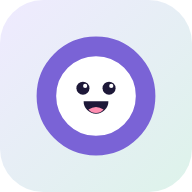
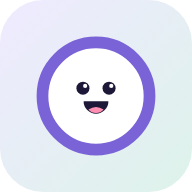
Serve the site at mojo.heylixir.com and thin the O rings
- Site URL is https://mojo.heylixir.com, served at the root (no /mojo basePath);
  old /mojo links redirect permanently to the same page
- Thinner rings on both O characters (stroke 9 instead of 15, same outer size)
  in the logo, brand SVGs, favicon, app icons and social cards

Claude-Session: https://claude.ai/code/session_018eTBRWSBaTgPc7eA9szVGF

Changed region(s): [[0.25, 0.25, 0.75, 0.75]]

diff --git a/src/lib/site.ts b/src/lib/site.ts
@@ -1,22 +1,22 @@
 /**
  * Every external link, URL and contact detail on the site, in one place.
  *
- * NEXT_PUBLIC_SITE_URL is the public address of this site, including any
- * sub-path. It defaults to https://heylixir.com/mojo -- the address the MOJO
- * API already uses in its emails (privacy, unsubscribe). next.config.ts
+ * NEXT_PUBLIC_SITE_URL is the public address of this site, served at the
+ * root of https://mojo.heylixir.com (the default, and the address the MOJO
+ * API uses in its emails: privacy, unsubscribe). next.config.js
  * derives `basePath` from the same value, so canonical URLs, the sitemap and
  * routing always agree.
  */
-const rawSiteUrl = process.env.NEXT_PUBLIC_SITE_URL ?? "https://heylixir.com/mojo";
+const rawSiteUrl = process.env.NEXT_PUBLIC_SITE_URL ?? "https://mojo.heylixir.com";
 
-/** Absolute site URL without a trailing slash, e.g. https://heylixir.com/mojo */
+/** Absolute site URL without a trailing slash, e.g. https://mojo.heylixir.com */
 export const siteUrl = rawSiteUrl.replace(/\/+$/, "");
 
 /**
  * Absolute URL for a path on this site, without a trailing slash (matching
  * `trailingSlash: false` in next.config.js), so canonicals, the sitemap and the served URL agree.
- *   absoluteUrl("/guides")      -> https://heylixir.com/mojo/guides
- *   absoluteUrl("/sitemap.xml") -> https://heylixir.com/mojo/sitemap.xml
+ *   absoluteUrl("/guides")      -> https://mojo.heylixir.com/guides
+ *   absoluteUrl("/sitemap.xml") -> https://mojo.heylixir.com/sitemap.xml
  */
 export function absoluteUrl(path = "/"): string {
   const p = (path.startsWith("/") ? path : `/${path}`).replace(/\/+$/, "");

diff --git a/next.config.js b/next.config.js
@@ -2,9 +2,10 @@
 // eslint-disable-next-line @typescript-eslint/no-require-imports -- CommonJS config
 const path = require('path')
 
-// The site's public URL. Its path becomes basePath, so https://heylixir.com/mojo serves the
-// site under /mojo (set NEXT_PUBLIC_SITE_URL in .env.production).
-const siteUrl = process.env.NEXT_PUBLIC_SITE_URL || 'https://heylixir.com/mojo'
+// The site's public URL (set NEXT_PUBLIC_SITE_URL in .env.production). It is served at the root of
+// mojo.heylixir.com, so basePath is empty; a URL with a path (e.g. https://example.com/mojo) would
+// serve the site under that path instead.
+const siteUrl = process.env.NEXT_PUBLIC_SITE_URL || 'https://mojo.heylixir.com'
 const basePath = new URL(siteUrl).pathname.replace(/\/+$/, '')
 
 const nextConfig = {
@@ -38,6 +39,13 @@ const nextConfig = {
     cacheComponents: true,
     reactCompiler: true,
     poweredByHeader: false,
+    // the site used to live under /mojo; send old links to the same page at the root
+    async redirects() {
+        return basePath ? [] : [
+            { source: '/mojo', destination: '/', permanent: true },
+            { source: '/mojo/:path*', destination: '/:path*', permanent: true },
+        ]
+    },
 }
 
 module.exports = nextConfig

diff --git a/src/components/brand/characters.tsx b/src/components/brand/characters.tsx
@@ -10,7 +10,7 @@ const INK = "#1D1838";
 export function TalkerO({ size = "1em", dark = false, style, className }: Props) {
   return (
     <svg width={size} height={size} viewBox="0 0 100 100" style={style} className={className} aria-hidden="true">
-      <circle cx="50" cy="50" r="38" fill="#fff" stroke={dark ? "#A996FF" : "#7A63D6"} strokeWidth="15" />
+      <circle cx="50" cy="50" r="41" fill="#fff" stroke={dark ? "#A996FF" : "#7A63D6"} strokeWidth="9" />
       <circle cx="40" cy="44" r="5" fill={INK} />
       <circle cx="60" cy="44" r="5" fill={INK} />
       <circle cx="41.7" cy="42.3" r="1.6" fill="#fff" />
@@ -25,7 +25,7 @@ export function TalkerO({ size = "1em", dark = false, style, className }: Props)
 export function ChillO({ size = "1em", dark = false, style, className }: Props) {
   return (
     <svg width={size} height={size} viewBox="0 0 100 100" style={style} className={className} aria-hidden="true">
-      <circle cx="50" cy="50" r="38" fill="#fff" stroke={dark ? "#6FD3B4" : "#3FA688"} strokeWidth="15" />
+      <circle cx="50" cy="50" r="41" fill="#fff" stroke={dark ? "#6FD3B4" : "#3FA688"} strokeWidth="9" />
       <path
         d="M33.5 47q6.5-7.5 13 0M53.5 47q6.5-7.5 13 0M39.5 56.5q10.5 9.5 21 0"
         fill="none"

diff --git a/src/app/layout.tsx b/src/app/layout.tsx
@@ -13,8 +13,7 @@ const jakarta = Plus_Jakarta_Sans({
 const defaultTitle = "MOJO: Voice Journal & Mood Tracker for Sleep and Energy";
 
 export const metadata: Metadata = {
-  // Includes the base path (e.g. /mojo): Next joins relative metadata URLs, including generated
-  // OG images, onto this pathname. Canonical and OG page URLs are absolute via absoluteUrl().
+  // Next joins relative metadata URLs, including generated OG images, onto this URL. Canonical and OG page URLs are absolute via absoluteUrl().
   metadataBase: new URL(site.url),
   title: { default: defaultTitle, template: "%s · MOJO" },
   description: site.description,

diff --git a/src/app/robots.ts b/src/app/robots.ts
@@ -6,10 +6,7 @@ export function generateStaticParams() {
   return [{}];
 }
 
-/**
- * When this app is served under a path (heylixir.com/mojo), crawlers read robots.txt from the
- * domain root, which the parent site owns. Add `Sitemap: <this sitemap URL>` there too.
- */
+/** robots.txt for mojo.heylixir.com (the site is served at the subdomain root, so crawlers read this one). */
 export default function robots(): MetadataRoute.Robots {
   return {
     // The unsubscribe page is kept out of search with a noindex tag, which crawlers must be

diff --git a/README.md b/README.md
@@ -44,14 +44,14 @@ photos.
   entry, Article/Breadcrumb/FAQ JSON-LD and related-guide links. Keep `metaTitle` under ~60
   characters and `description` at 140-160. Bump `updated` when you edit a guide.
 - `sitemap.xml`, `robots.txt`, `manifest.webmanifest` and `llms.txt` are generated from the same data.
-- Canonical URLs come from `NEXT_PUBLIC_SITE_URL` (default `https://heylixir.com/mojo`), whose path
-  is also the `basePath`. URLs have no trailing slash.
+- Canonical URLs come from `NEXT_PUBLIC_SITE_URL` (default `https://mojo.heylixir.com`), served at the
+  domain root (no `basePath`). URLs have no trailing slash.
 
 ## Environment variables
 
 | Variable | Purpose |
 | --- | --- |
-| `NEXT_PUBLIC_SITE_URL` | Public URL, e.g. `https://heylixir.com/mojo` (sets basePath and canonicals) |
+| `NEXT_PUBLIC_SITE_URL` | Public URL, e.g. `https://mojo.heylixir.com` (canonicals; a path in it would become the basePath) |
 | `NEXT_PUBLIC_MOJO_API_URL` | MOJO API origin for the launch waitlist (`POST /v1/launch-notifications`). Without it the form falls back to email. |
 | `NEXT_PUBLIC_APP_STORE_URL`, `NEXT_PUBLIC_PLAY_STORE_URL` | Store links. While both are unset the site shows the waitlist form. |
 | `NEXT_PUBLIC_LAUNCH_DATE` | Launch moment for the countdown, ISO 8601 (default `2026-12-01T00:00:00Z`) |
@@ -74,7 +74,7 @@ project sits inside another folder that has its own lockfile.
 Deploy `deploy.zip` on Namecheap as a Node.js app (cPanel → Setup Node.js App):
 
 1. Create the app: Node.js 20+, mode Production, application root e.g. `mojo-website`,
-   application URL `heylixir.com/mojo`, startup file `server.js`.
+   application URL `mojo.heylixir.com` (add the subdomain in cPanel → Domains first), startup file `server.js`.
 2. File Manager → application root → upload `deploy.zip` → Extract (overwrite).
 3. Restart the app in Setup Node.js App. No "Run NPM Install" needed: the zip includes the
    `node_modules` the server uses.
